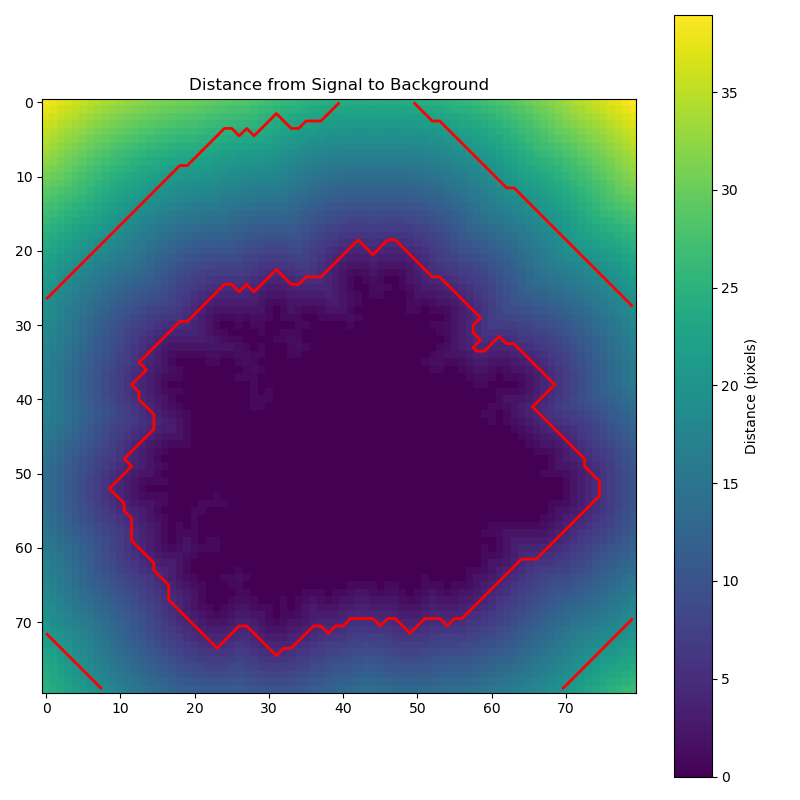
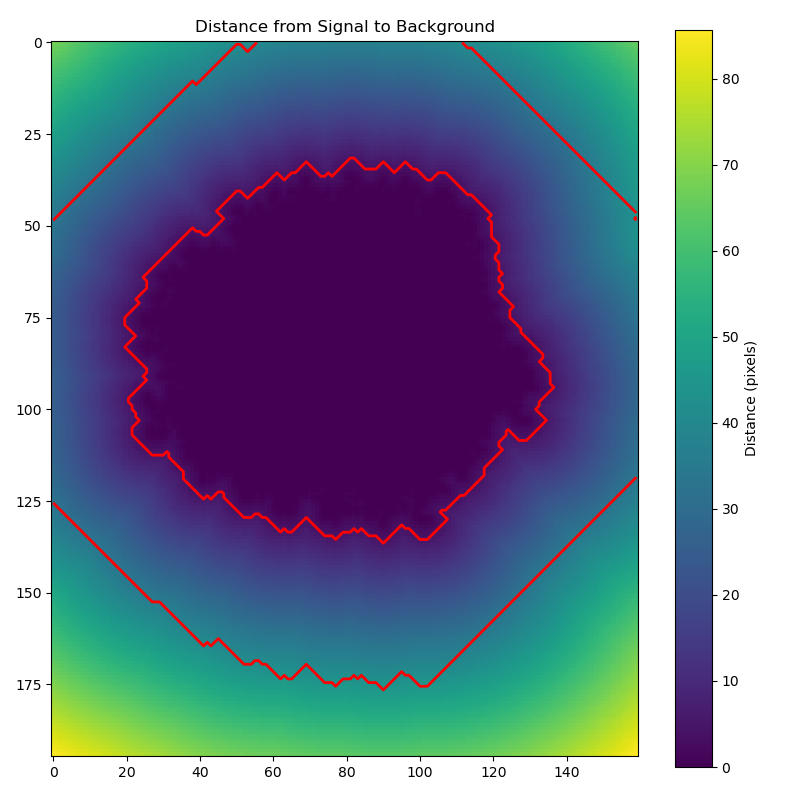
Tweak analysis paraters for better signal to noise on xcsl1008222
- bigger top-level ROI

diff --git a/btx/processing/scripts/xppl1030522.py b/btx/processing/scripts/xppl1030522.py
@@ -68,9 +68,9 @@ config = {
         'background_roi_coords': [0, 15, 0, 40]
     },
     'load_data': {
-        'roi': (170, 250, 135, 215),  # Moved from function call to config
+        'roi': (130, 290, 95, 340), 
         'energy_filter': [9.0, 5.0],
-        'i0_threshold': 0,
+        'i0_threshold': 1500,
         'time_bin': 2.0,
         'time_tool': [0.0, 0.015]
     },
@@ -90,8 +90,10 @@ config = {
         'bg_mask_thickness': 5
     },
     'pump_probe_analysis': {
-        'min_count': 2,
-        'significance_level': 0.05
+        'min_count': 2,                # Minimum frames per delay bin
+        'significance_level': 0.05,     # P-value threshold for significance
+        'Emin': 9.0,                   # Minimum energy threshold (keV)
+        'Emax': float('inf')           # Maximum energy threshold (keV)
     }
 }
 

diff --git a/btx/processing/scripts/xppl1030522_extract_npz.py b/btx/processing/scripts/xppl1030522_extract_npz.py
@@ -69,6 +69,7 @@ def extract_data_from_h5(filename: str, output_dir: str) -> None:
         print("Loading detector frames...")
         roi0_mask = h5[data_paths['roi0_mask']][0]
         frames = h5[data_paths['roi0']][:] * np.logical_not(roi0_mask)
+        #print('smalldata shape:', frames.shape)
         
         # Save to npz
         output_path = Path(output_dir)
